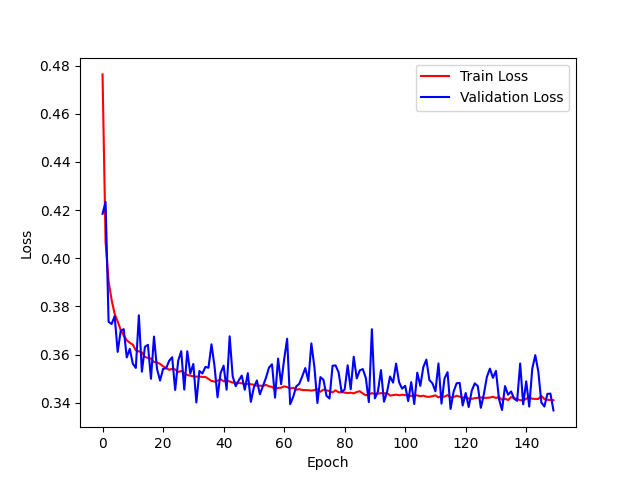
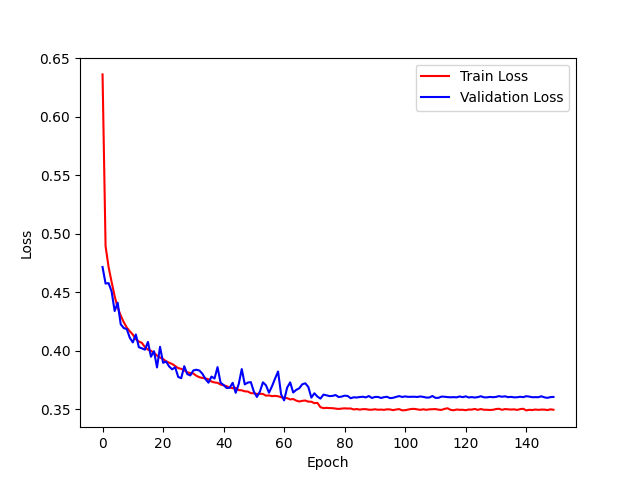
update

diff --git a/Ancla/AnclaPy/Regression_multi_frac.py b/Ancla/AnclaPy/Regression_multi_frac.py
@@ -8,21 +8,21 @@ import torch.nn as nn
 from torch.utils.data import Dataset, DataLoader
 from torch.functional import F
 
-batch_size = 32
+batch_size = 1024
 
 class Model(torch.nn.Module):
     def __init__(self):
         super(Model, self).__init__()
         # Convolutional layers
-        self.conv1 = nn.Conv1d(in_channels=8, out_channels=16, kernel_size=3, padding=1)
-        self.bn1 = nn.BatchNorm1d(8 * 2)
+        self.conv1 = nn.Conv1d(in_channels=7, out_channels=14, kernel_size=3, padding=1)
+        self.bn1 = nn.BatchNorm1d(14)
         self.pool = nn.MaxPool1d(kernel_size=2, stride=2)
         
-        self.conv2 = nn.Conv1d(in_channels=16, out_channels=16, kernel_size=3, padding=1)
-        self.bn2 = nn.BatchNorm1d(8 * 2)
+        self.conv2 = nn.Conv1d(in_channels=14, out_channels=14, kernel_size=3, padding=1)
+        self.bn2 = nn.BatchNorm1d(14)
         
-        self.conv3 = nn.Conv1d(in_channels=16, out_channels=8, kernel_size=3, padding=1)
-        self.bn3 = nn.BatchNorm1d(8)
+        self.conv3 = nn.Conv1d(in_channels=14, out_channels=7, kernel_size=3, padding=1)
+        self.bn3 = nn.BatchNorm1d(7)
         
         # Calculate the size of the flattened features after the last pooling layer
         self._to_linear = None
@@ -31,8 +31,8 @@ class Model(torch.nn.Module):
         # Fully connected layers
         self.fc1 = nn.Linear(self._to_linear, 128)
         self.fc2 = nn.Linear(128, 64)
-        self.fc3 = nn.Linear(64, 32)
-        self.fc4 = nn.Linear(32, 1)
+        # self.fc3 = nn.Linear(64, 32)
+        self.fc4 = nn.Linear(64, 1)
         
         self.dropout = nn.Dropout(0.2)
 
@@ -52,7 +52,7 @@ class Model(torch.nn.Module):
 
     def _get_to_linear_dim(self):
         with torch.no_grad():
-            x = torch.zeros(1, 8, 100)
+            x = torch.zeros(1, 7, 100)
             x = self.pool(F.relu(self.bn1(self.conv1(x))))
             x = self.pool(F.relu(self.bn2(self.conv2(x))))
             x = self.pool(F.relu(self.bn3(self.conv3(x))))
@@ -67,9 +67,9 @@ class Model(torch.nn.Module):
         x = F.relu(self.fc1(x))
         x = self.dropout(x)
         x = F.relu(self.fc2(x))
-        x = self.dropout(x)
-        x = self.fc3(x)
-        x = F.relu(x)
+        # x = self.dropout(x)
+        # x = self.fc3(x)
+        # x = F.relu(x)
         x = self.dropout(x)
         x = self.fc4(x)
         
@@ -112,7 +112,8 @@ if __name__ == "__main__":
     #divide training features into train and test
     from sklearn.model_selection import train_test_split
 
-    X_train, X_test, y_train, y_test = train_test_split(training_features, y, test_size=0.1, random_state=42)
+    X_train, X_test, y_train, y_test = train_test_split(training_features, y, test_size=0.8,
+                                                         shuffle = True, random_state=42)
 
     # Create data sets
     train_dataset = RTDataset(X_train, y_train)
@@ -129,7 +130,11 @@ if __name__ == "__main__":
     criterion = torch.nn.MSELoss()
 
     #train the model 
-    optimizer = torch.optim.Adam(model.parameters(), lr=0.001)
+    optimizer = torch.optim.SGD(model.parameters(), lr=0.01, momentum=0.7)
+
+    # RecudeLRonPlateau
+    scheduler = torch.optim.lr_scheduler.ReduceLROnPlateau(optimizer, mode='min',
+                                                        factor=0.1, patience=5)
 
     train_losses = []
     val_losses = []
@@ -137,7 +142,7 @@ if __name__ == "__main__":
     model.to(device)
 
     # training loop
-    for epoch in range(150):
+    for epoch in range(500):
         model.train()
         running_loss = 0.0
         for inputs, targets in train_loader:
@@ -145,6 +150,10 @@ if __name__ == "__main__":
             outputs = model(inputs.to(device))
             loss = criterion(outputs, targets.to(device))
             loss.backward()
+
+            #gradient clipping
+            # torch.nn.utils.clip_grad_norm_(model.parameters(), 1)
+
             optimizer.step()
             running_loss += loss.item()
         
@@ -162,10 +171,12 @@ if __name__ == "__main__":
         val_loss /= len(test_loader)
         val_losses.append(val_loss)
         
-        print(f"Epoch {epoch+1}/{150}, Train Loss: {train_loss}, Validation Loss: {val_loss}")
+        print(f"Epoch {epoch+1}/{500}, Train Loss: {train_loss}, Validation Loss: {val_loss}")
+        scheduler.step(val_loss)
 
     # Save the model
-    torch.save(model.state_dict(), r"D:\OtherPeptideResultsForTraining\RT_model_5_22_24_V5_Adam_150Epochs_lr_001.pth")
+    torch.save(model.state_dict(),
+                r"D:\OtherPeptideResultsForTraining\RT_model_5_22_24_V8_SGD_07Moment_500Epochs_lr_001.pth")
     
     # Plot training history
     import matplotlib.pyplot as plt
@@ -175,4 +186,4 @@ if __name__ == "__main__":
     plt.xlabel('Epoch')
     plt.ylabel('Loss')
     plt.legend()
-    plt.savefig("training_history_5_22_24.png")
+    plt.savefig("training_history_5_22_24_V7.png")

diff --git a/Ancla/AnclaPy/Regression_multi_frac_testing.py b/Ancla/AnclaPy/Regression_multi_frac_testing.py
@@ -14,15 +14,15 @@ class Model(torch.nn.Module):
     def __init__(self):
         super(Model, self).__init__()
         # Convolutional layers
-        self.conv1 = nn.Conv1d(in_channels=8, out_channels=16, kernel_size=3, padding=1)
-        self.bn1 = nn.BatchNorm1d(8 * 2)
+        self.conv1 = nn.Conv1d(in_channels=7, out_channels=14, kernel_size=3, padding=1)
+        self.bn1 = nn.BatchNorm1d(14)
         self.pool = nn.MaxPool1d(kernel_size=2, stride=2)
         
-        self.conv2 = nn.Conv1d(in_channels=16, out_channels=16, kernel_size=3, padding=1)
-        self.bn2 = nn.BatchNorm1d(8 * 2)
+        self.conv2 = nn.Conv1d(in_channels=14, out_channels=28, kernel_size=3, padding=1)
+        self.bn2 = nn.BatchNorm1d(28)
         
-        self.conv3 = nn.Conv1d(in_channels=16, out_channels=8, kernel_size=3, padding=1)
-        self.bn3 = nn.BatchNorm1d(8)
+        self.conv3 = nn.Conv1d(in_channels=28, out_channels=52, kernel_size=3, padding=1)
+        self.bn3 = nn.BatchNorm1d(52)
         
         # Calculate the size of the flattened features after the last pooling layer
         self._to_linear = None
@@ -31,8 +31,8 @@ class Model(torch.nn.Module):
         # Fully connected layers
         self.fc1 = nn.Linear(self._to_linear, 128)
         self.fc2 = nn.Linear(128, 64)
-        self.fc3 = nn.Linear(64, 32)
-        self.fc4 = nn.Linear(32, 1)
+        # self.fc3 = nn.Linear(64, 32)
+        self.fc4 = nn.Linear(64, 1)
         
         self.dropout = nn.Dropout(0.2)
 
@@ -52,7 +52,7 @@ class Model(torch.nn.Module):
 
     def _get_to_linear_dim(self):
         with torch.no_grad():
-            x = torch.zeros(1, 8, 100)
+            x = torch.zeros(1, 7, 100)
             x = self.pool(F.relu(self.bn1(self.conv1(x))))
             x = self.pool(F.relu(self.bn2(self.conv2(x))))
             x = self.pool(F.relu(self.bn3(self.conv3(x))))
@@ -67,9 +67,9 @@ class Model(torch.nn.Module):
         x = F.relu(self.fc1(x))
         x = self.dropout(x)
         x = F.relu(self.fc2(x))
-        x = self.dropout(x)
-        x = self.fc3(x)
-        x = F.relu(x)
+        # x = self.dropout(x)
+        # x = self.fc3(x)
+        # x = F.relu(x)
         x = self.dropout(x)
         x = self.fc4(x)
         
@@ -104,7 +104,7 @@ if __name__ == "__main__":
     
     # load the model 
     model = Model()
-    model.load_state_dict(torch.load(r"D:\OtherPeptideResultsForTraining\RT_model_5_22_24_V5_Adam_150Epochs_lr_001.pth"))
+    model.load_state_dict(torch.load(r"D:\OtherPeptideResultsForTraining\RT_model_5_22_24_V6_SGD_09Moment_50Epochs_lr_001_No_Charge_noShuffle.pth"))
     # Test model with predicting the fractions and making 10 plots with R^2
 
     # datasets

diff --git a/Ancla/AnclaPy/Ancla.py b/Ancla/AnclaPy/Ancla.py
@@ -76,10 +76,10 @@ class Featurizer(object):
                     z5_scale.append(0)
 
         # compute the charge
-        charge = [peptides.Peptide(residue).charge() for residue in data]
+        # charge = [peptides.Peptide(residue).charge() for residue in data]
 
         #pad the charge array with zeros until the length is 100
-        charge = [charge + [0] * (100 - len(charge))]
+        # charge = [charge + [0] * (100 - len(charge))]
 
         # add the features into the final array, vstacked
         final_array = np.vstack(
@@ -90,8 +90,8 @@ class Featurizer(object):
              np.array(z3_scale),
              np.array(z4_scale),
              np.array(z5_scale), 
-             np.array(charge)]
-            )
+            #  np.array(charge)]
+            ])
 
         return final_array
     
